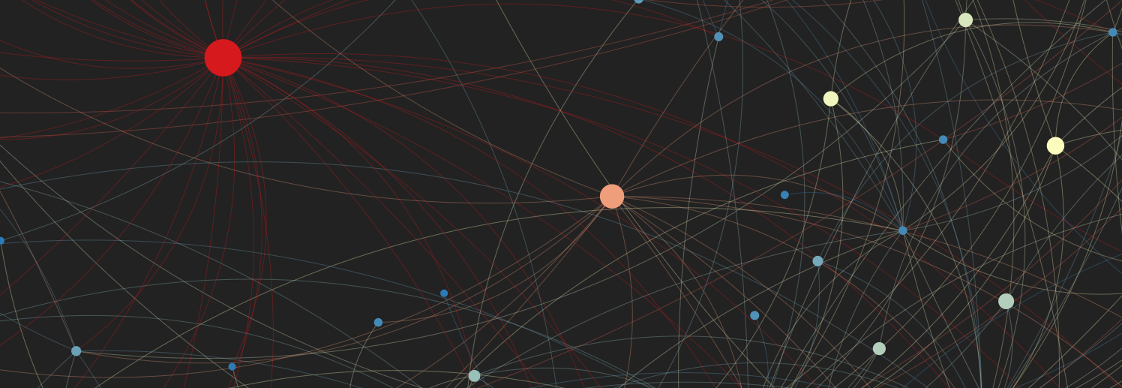
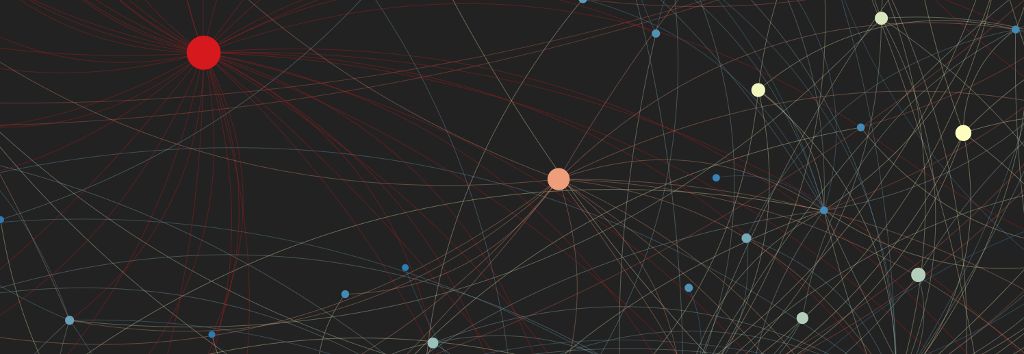
header tweaks

diff --git a/css/main.css b/css/main.css
@@ -15,7 +15,12 @@ html, body {
 
 #header {
     background-image: url('../img/header.png');
+    background-repeat: no-repeat;
     color: #FFF;
+    width: 80%;
+    max-width: 1024px;
+    margin: 0 auto;
+    margin-bottom: 30px;
 }
 
 #graph-wrapper
